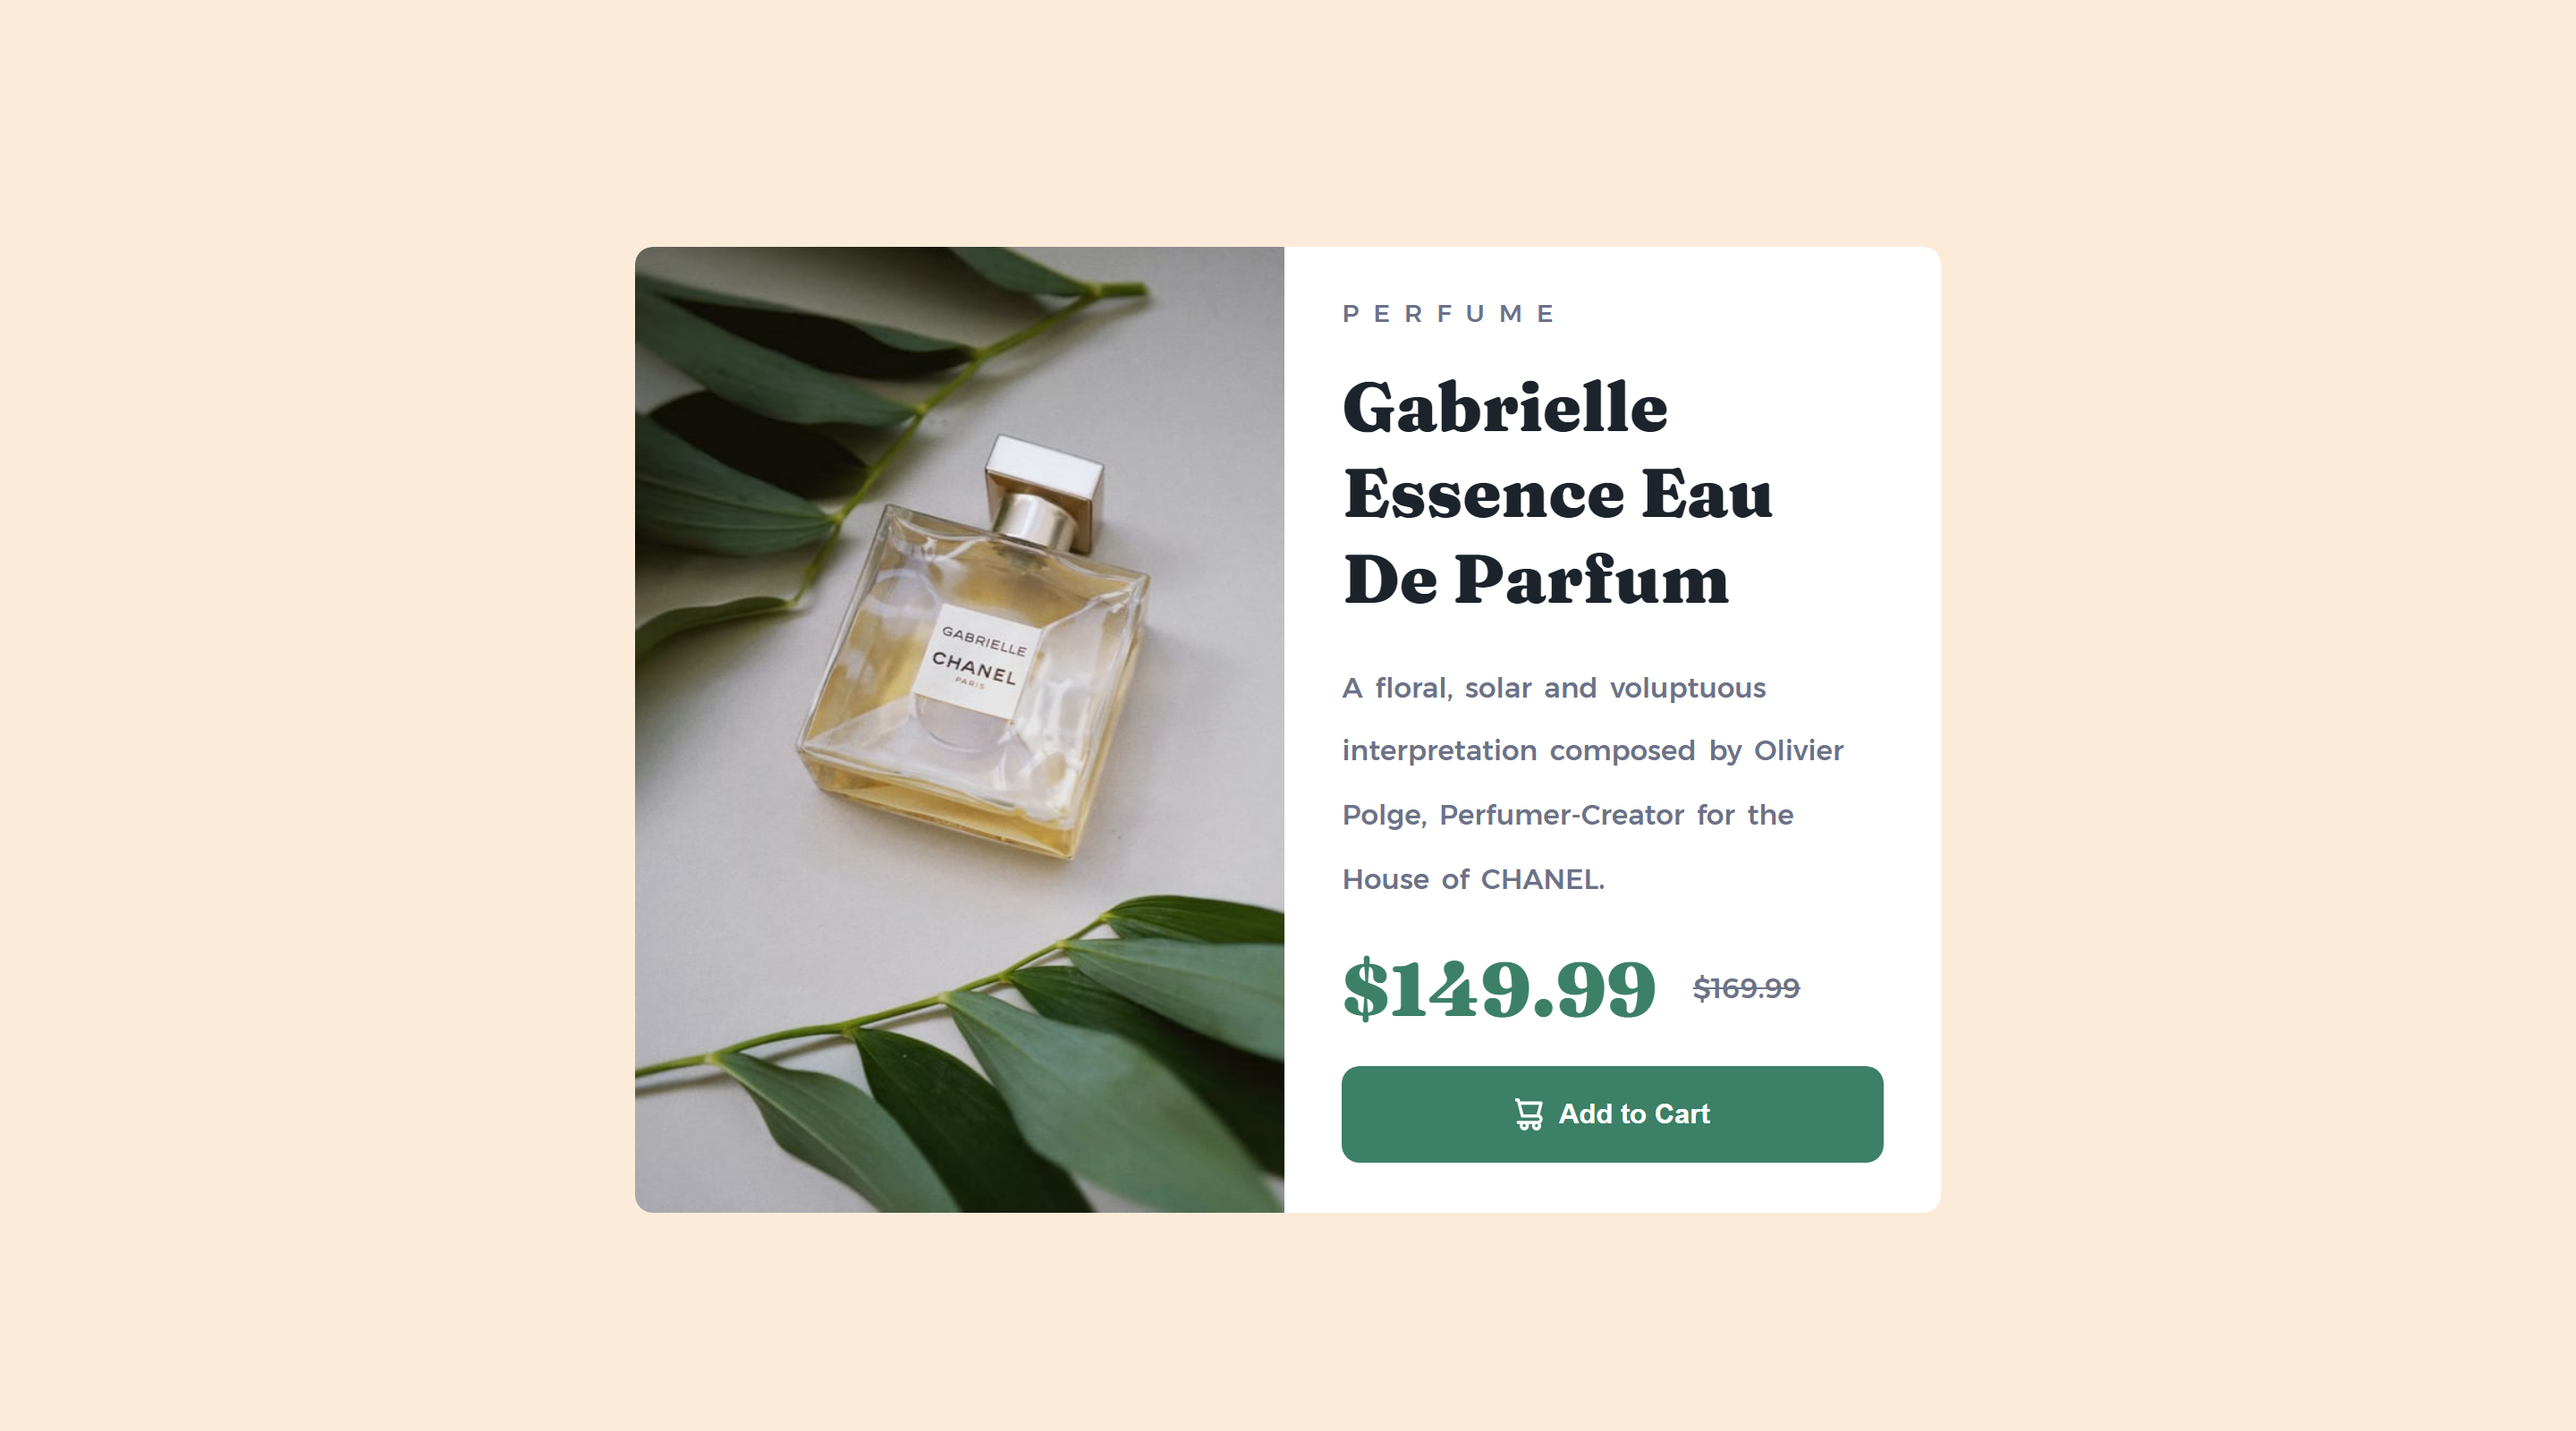
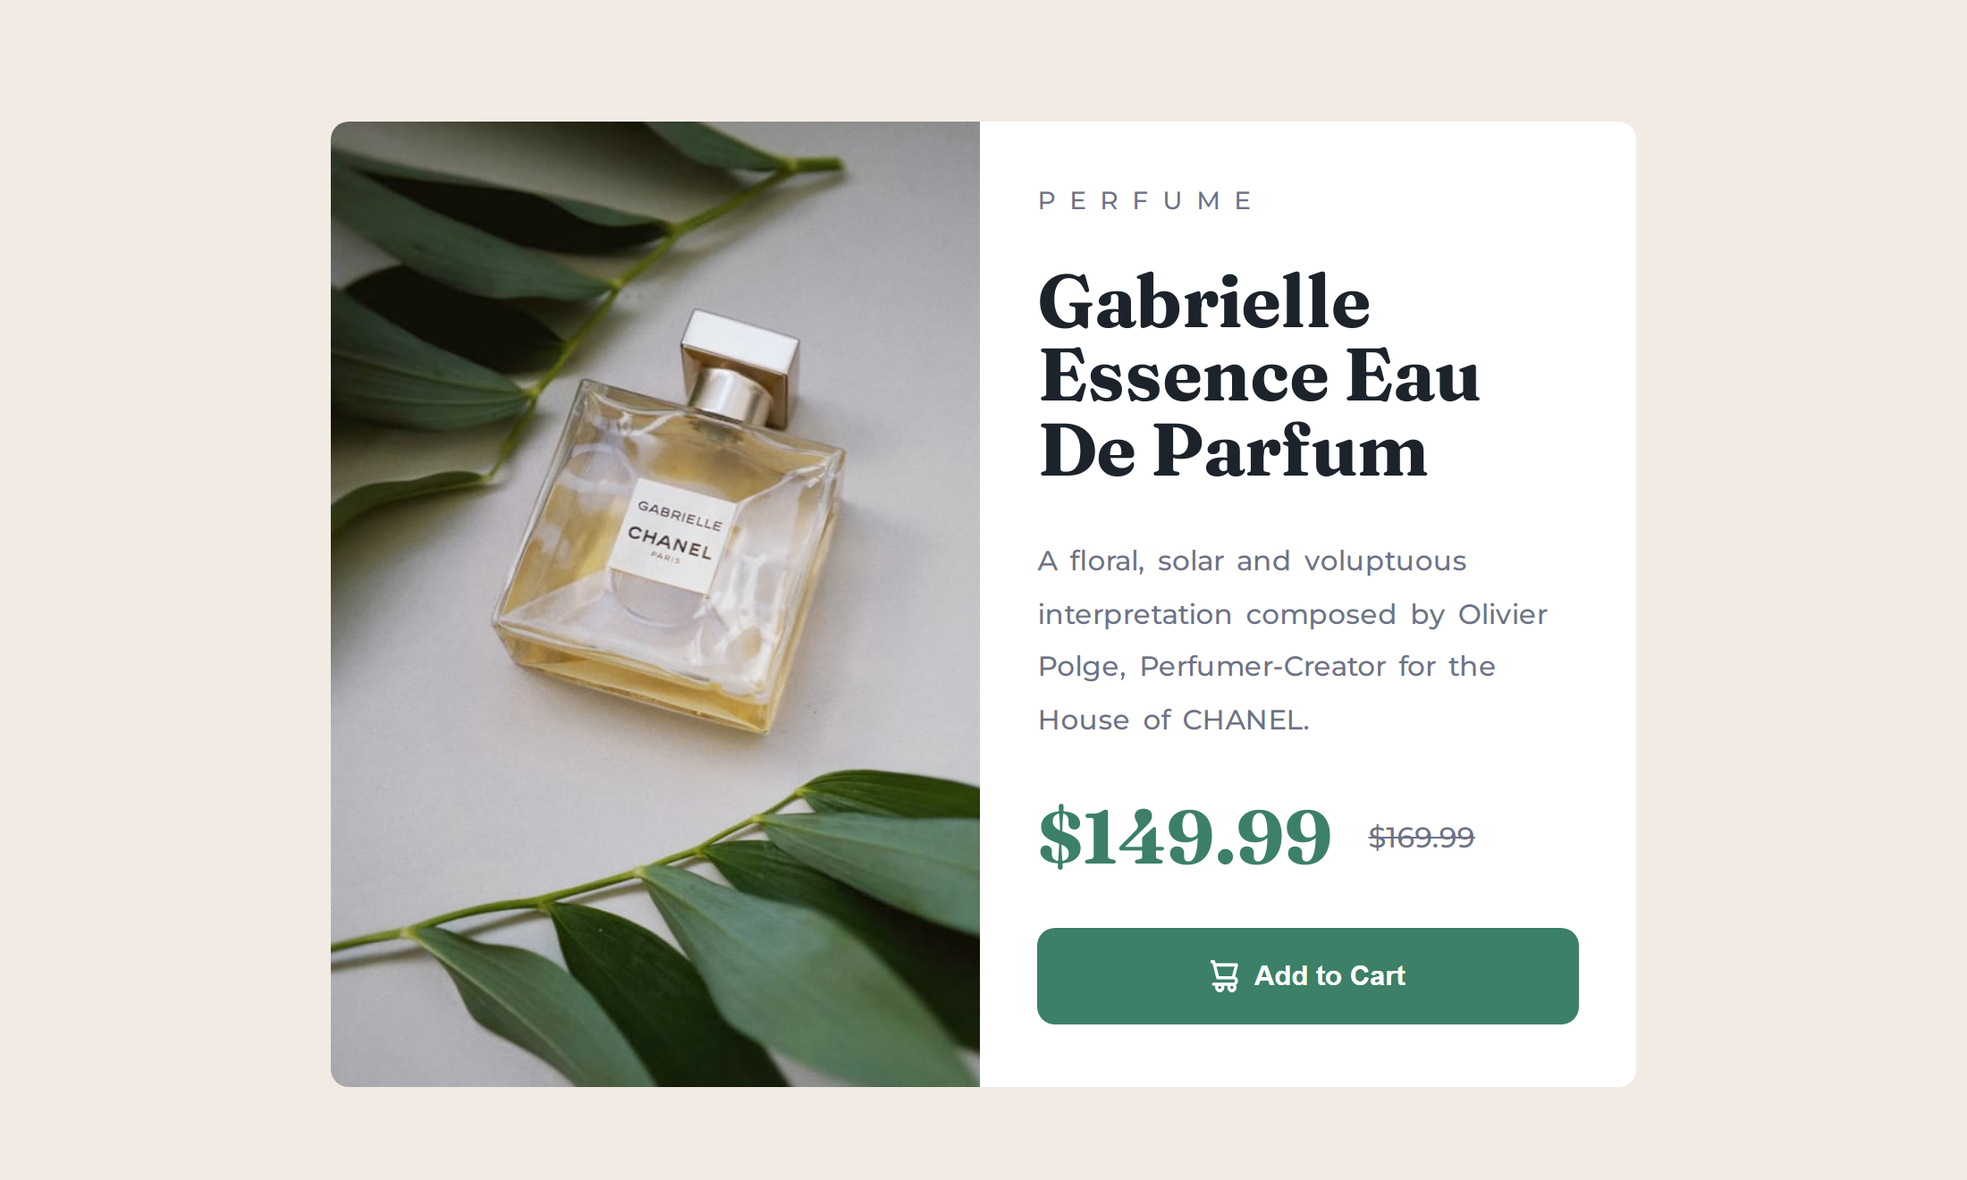
Update Files

diff --git a/css/style.css b/css/style.css
@@ -1,12 +1,12 @@
 @import url("https://fonts.googleapis.com/css2?family=Fraunces:opsz,wght@9..144,700&family=Montserrat:wght@500;700&display=swap");
 
 :root {
-  --dark-cyan: hsl(158, 36%, 37%);
-  --cream: hsl(30, 38%, 92%);
-  --white: hsl(0, 0%, 100%);
-  --very-dark-blue: hsl(212, 21%, 14%);
-  --dark-grayish-blue: hsl(228, 12%, 48%);
-  --card-shadow: #c0bfb89e;
+  --clr-neutral-100: hsla(53, 6%, 74%, 0.62);
+  --cl-neutral-200: hsl(0, 0%, 100%);
+  --clr-neutral-300: hsl(30, 38%, 92%);
+  --clr-neutral-600: hsl(228, 12%, 48%);
+  --clr-neutral-700: hsl(212, 21%, 14%);
+  --clr-primary: hsl(158, 36%, 37%);
 }
 
 * {
@@ -17,7 +17,7 @@
 
 body {
   align-items: center;
-  background-color: var(--cream);
+  background-color: var(--clr-neutral-300);
   display: flex;
   font-family: "Montserrat", sans-serif;
   flex-direction: column;
@@ -36,40 +36,40 @@ img {
   width: 100%;
 }
 
-h1 {
-  color: var(--very-dark-blue);
+h2 {
+  color: var(--clr-neutral-700);
 }
 
 p {
-  color: var(--dark-grayish-blue);
+  color: var(--clr-neutral-600);
   font-size: 0.875rem;
   font-weight: 500;
 }
 
 .card,
-.product-info,
-.price,
-button {
+.card__product-info,
+.card__product-price,
+.button {
   display: flex;
 }
 
 .card,
-button {
+.button {
   border-radius: 0.625rem;
 }
 
-h1,
+h2,
 #new-price {
   font-family: "Fraunces", serif;
 }
 
 #new-price,
 .attribution a {
-  color: var(--dark-cyan);
+  color: var(--clr-primary);
 }
 
 .card {
-  background-color: var(--white);
+  background-color: var(--cl-neutral-200);
   height: 33.75em;
   margin-top: 1rem;
   max-width: 45.625em;
@@ -77,47 +77,48 @@ h1,
   width: 90%;
 }
 
-.product-info {
+.card__product-info {
   flex-direction: column;
   justify-content: space-evenly;
   flex: 1;
   padding: 0.5rem 2rem;
 }
 
-.product-category {
+.card__product-category {
   letter-spacing: 0.5rem;
 }
 
-.product-heading {
+.card__product-heading {
   font-size: clamp(1.4rem, 1.4rem + 2vw, 2.6rem);
+  line-height: 1;
 }
 
-.product-description {
+.card__product-description {
   font-size: clamp(0.875rem, 0.45rem + 2vw, 0.97rem);
   word-spacing: 3px;
-  line-height: 2.3;
+  line-height: 1.9;
 }
 
-.price {
+.card__product-price {
   align-items: center;
   gap: 1.25rem;
   height: 3rem;
 }
 
-#new-price {
+.card__product-price #new-price {
   font-size: 2.625rem;
 }
 
-#old-price {
-  color: var(--dark-grayish-blue);
+.card__product-price #old-price {
+  color: var(--clr-neutral-600);
   font-size: 1rem;
   text-decoration: line-through;
 }
 
-button {
-  background-color: var(--dark-cyan);
+.button {
+  background-color: var(--clr-primary);
   border: none;
-  color: var(--white);
+  color: var(--cl-neutral-200);
   cursor: pointer;
   font-size: 0.9687rem;
   font-weight: 700;
@@ -127,17 +128,22 @@ button {
   transition: 0.2s ease-in;
 }
 
-button:hover {
+.button:is(:hover, :focus-visible) {
   --darker-cyan: hsl(158, 36%, 25%);
   background: var(--darker-cyan);
 }
 
-button img {
+.button:focus-visible {
+  outline: 2px dotted var(--clr-primary);
+  outline-offset: 5px;
+}
+
+.button img {
   width: 1rem;
 }
 
 .attribution {
-  font-size: clamp(0.7125rem, calc(0.7rem + 1.2vw), 1rem);
+  font-size: clamp(0.7125rem, 0.7rem + 1.2vw, 1rem);
   margin-bottom: 1rem;
   text-align: center;
   width: 90%;
@@ -146,13 +152,22 @@ button img {
 .attribution a {
   font-weight: 700;
   text-decoration: none;
+  outline: none;
+  border-radius: 4px;
+  color: var(--clr-primary);
+  text-decoration: none;
+  outline-offset: 3px;
 }
 
 .attribution a:hover {
   text-decoration: underline;
 }
 
-@media screen and (max-width: 44.937em) {
+.attribution a:focus-visible {
+  outline: 2px solid var(--clr-primary);
+}
+
+@media (max-width: 44.937em) {
   body {
     gap: 0;
   }
@@ -162,14 +177,15 @@ button img {
     height: auto;
     padding-bottom: 0.625rem;
     margin: 2rem 0;
+    max-width: 400px;
   }
 
-  .product-info {
+  .card__product-info {
     padding: 1rem 1.4rem 1rem;
     row-gap: 0.8125rem;
   }
 
-  .product-description {
+  .card__product-description {
     line-height: 1.8;
   }
 
@@ -181,7 +197,7 @@ button img {
     font-size: 0.9375rem;
   }
 
-  button {
+  .button {
     padding: 1rem;
   }
 

diff --git a/index.html b/index.html
@@ -1,39 +1,48 @@
 <!DOCTYPE html>
 <html lang="en">
+
 <head>
   <meta charset="UTF-8">
   <meta name="viewport" content="width=device-width, initial-scale=1.0">
-  <link rel="icon" type="image/png" sizes="32x32" href="./images/favicon-32x32.png">
+  <link rel="icon" type="image/png" sizes="32x32" href="images/favicon-32x32.png">
   <link rel="stylesheet" href="css/style.css">
   <title>Frontend Mentor | Product preview card component</title>
+  <base target="_blank">
 </head>
+
 <body>
   <main class="card">
-    <picture>
-      <source media="(max-width: 44.937em)" srcset="images/image-product-mobile.jpg">
-      <img src="images/image-product-desktop.jpg" alt="product-image">
-    </picture>
+    <figure>
+      <picture>
+        <source media="(max-width: 44.937em)" srcset="images/image-product-mobile.jpg">
+        <img src="images/image-product-desktop.jpg"
+          alt="Perfume bottle named Gabrielle Essence Eau De Parfum placed on a table with two leaves in the background."
+          class="card__image">
+      </picture>
+    </figure>
 
-    <div class="product-info">
-      <p class="product-category">PERFUME</p>
+    <section class="card__product-info">
+      <p class="card__product-category">PERFUME</p>
 
-      <h1 class="product-heading">Gabrielle Essence Eau De Parfum</h1>
-      
-      <p class="product-description">A floral, solar and voluptuous interpretation composed by Olivier Polge, Perfumer-Creator for the House of CHANEL.</p>
+      <h2 class="card__product-heading">Gabrielle Essence Eau De Parfum</h2>
 
-      <div class="price">
+      <p class="card__product-description">A floral, solar and voluptuous interpretation composed by Olivier Polge,
+        Perfumer-Creator for the House of CHANEL.</p>
+
+      <div class="card__product-price">
         <p id="new-price">$149.99</p>
         <p id="old-price">$169.99</p>
       </div>
 
-      <button type="button">
+      <button type="button" class="button">
         <img src="images/icon-cart.svg" alt="icon-cart">&nbsp;&nbsp;Add to Cart
       </button>
-    </div>
+    </section>
   </main>
   <footer class="attribution">
-    Challenge by <a href="https://www.frontendmentor.io?ref=challenge" target="_blank">Frontend Mentor</a>.
-    Coded by <a href="https://github.com/fortune-i-o/" target="_blank">fortune-i-o</a>.
+    Challenge by <a href="https://www.frontendmentor.io?ref=challenge">Frontend Mentor</a>.
+    Coded by <a href="https://github.com/fortune-i-o/">Fortune Iyoha</a>.
   </footer>
 </body>
+
 </html>

diff --git a/README.md b/README.md
@@ -9,7 +9,8 @@ This is a solution to the [Product preview card component challenge on Frontend 
   - [Screenshot](#screenshot)
   - [Links](#links)
 - [My process](#my-process)
-  - [Built with](#built-with)
+  - [Technology Used](#technology-used)
+  - [Folder Structure](#folder-structure)
 - [Author](#author)
 
 ## Overview
@@ -23,23 +24,36 @@ Users should be able to:
 
 ### Screenshot
 
-![product-preview-card-component-desktop](screenshots/product-preview-card-component-desktop.png)
+![website preview](screenshots/product-preview-card-component-desktop.png)
 
 ### Links
 
-- Solution URL: [frontendmentor.io/solutions/product-preview-card-component-_E9Cub8JFe](https://www.frontendmentor.io/solutions/product-preview-card-component-_E9Cub8JFe)
-- Live Site URL: [fem-product-preview-card-component.pages.dev](https://fem-product-preview-card-component.pages.dev/)
+- **Solution:** [frontendmentor.io/solutions/product-preview-card-component-\_E9Cub8JFe](https://www.frontendmentor.io/solutions/product-preview-card-component-_E9Cub8JFe)
+- **Live Site:** [fem-product-preview-card-component.pages.dev](https://fem-product-preview-card-component.pages.dev/)
 
 ## My process
 
-### Built with
+### Technology Used
 
-- Semantic HTML5 markup
-- CSS custom properties
-- Flexbox
+This project was built using the following frontend technologies and methodologies:
+
+- **Semantic HTML5 markup:** To provide a clear and meaningful structure to the content.
+- **CSS custom properties:** To efficiently manage and reuse style values throughout the project.
+- **Flexbox:** To create flexible and responsive layouts.
+- **BEM (Block Element Modifier):** To create modular, reusable, and maintainable CSS code.
+
+### Folder Structure
+
+```markdown
+./
+├─ assets/
+│ ├─ css/
+│ └─ images/
+├─ screenshots/
+├─ index.html
+└─ README.md
+```
 
 ## Author
 
-- Website - [fortune-io-socials](https://fortune-io-socials.pages.dev/)
-- Frontend Mentor - [@fortune-i-o](https://www.frontendmentor.io/profile/fortune-i-o)
-- Twitter - [@fortune_oi](https://www.twitter.com/fortune_oi)
+This project was created by **Fortune Iyoha**, a passionate web developer. If you want to connect with me or view more of my projects, you can visit my [Frontend Mentor profile](https://www.frontendmentor.io/profile/fortune-i-o) or follow me on [Twitter](https://twitter.com/fortuneiyoha) for updates and web development discussions.
